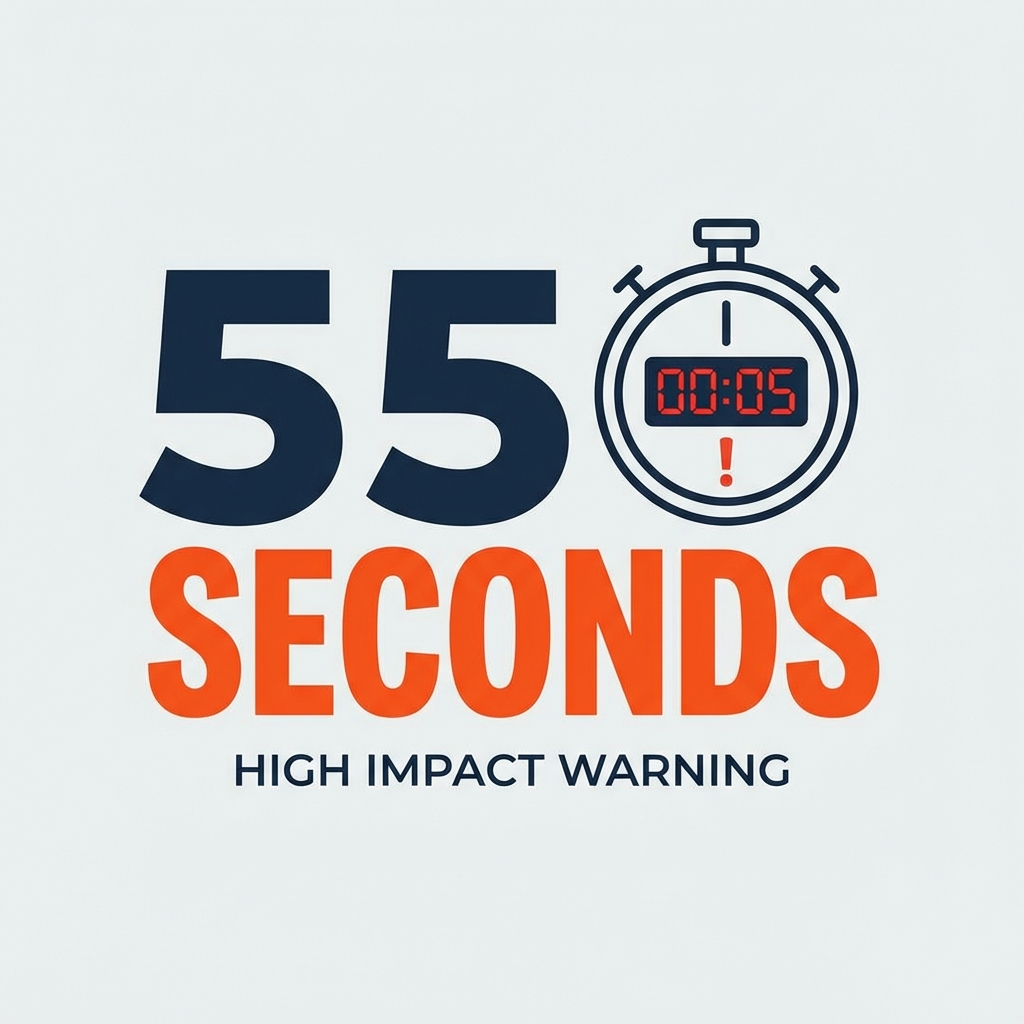
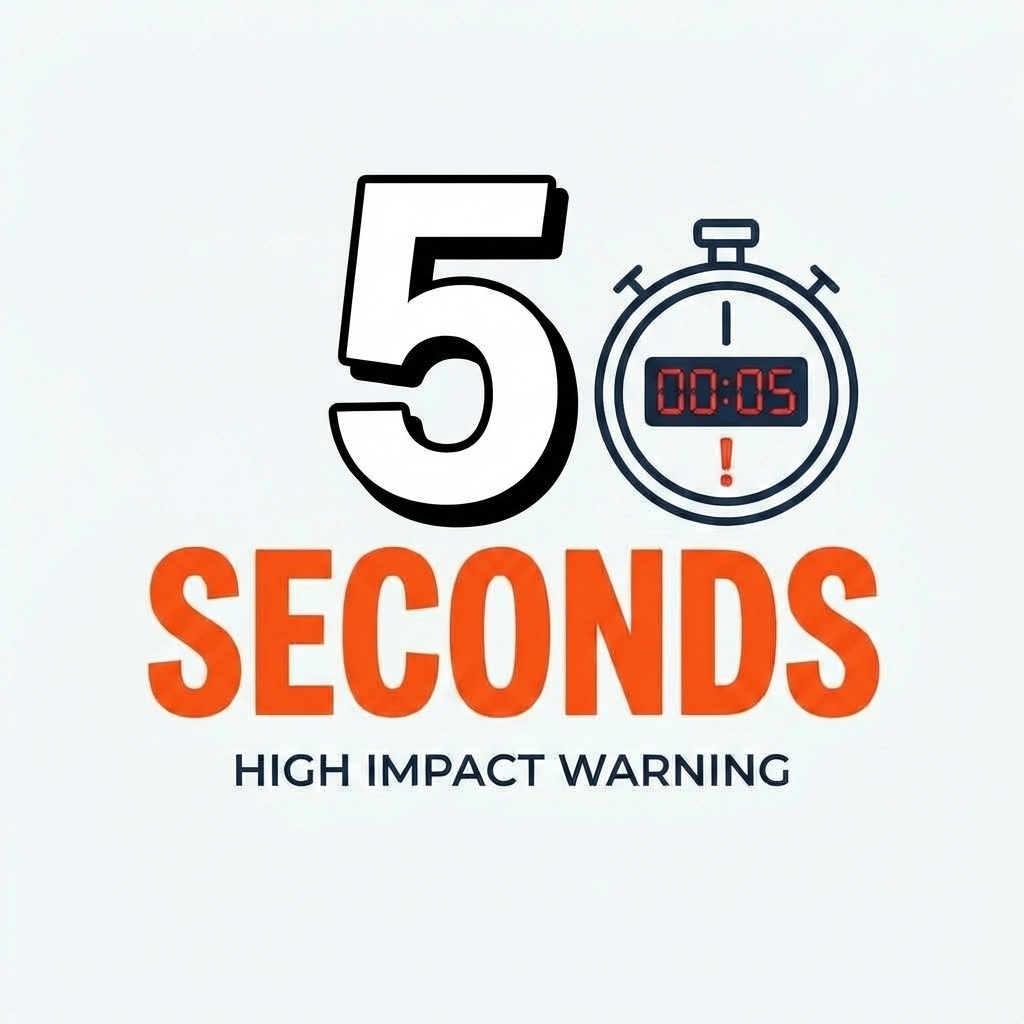
Update scene 4 image and adjust video plan copy

Changed region(s): [[0.125, 0.1562, 0.5625, 0.5312], [0.625, 0.3438, 0.7812, 0.4062], [0.6875, 0.4375, 0.7188, 0.4688]]

diff --git a/plans/video_composition_plan.md b/plans/video_composition_plan.md
@@ -13,7 +13,7 @@ Canvaのスライド1枚ごとに以下の構成で作ってください。
 
 | シーン | 秒数 | 画面イメージ (Canva素材検索ワード) | テロップ (画面に大きく出す文字) | ナレーション / 字幕 |
 | :--- | :--- | :--- | :--- | :--- |
-| **1** | 0:00-0:07 | ![Scene 1](assets/scene_01_busy_parents.png)<br>忙しい親、散らかった部屋、パソコン<br>*(Busy mom/dad, stressed)* | 親子の会話<br>1日、何分だと思いますか？ | 共働き世帯が増え、親子の会話時間は... |
+| **1** | 0:00-0:07 | ![Scene 1](assets/scene_01_busy_parents.png)<br>忙しい親、散らかった部屋、パソコン<br>*(Busy mom/dad, stressed)* | 親子の会話<br>1日、何分だと思いますか？ | 親子の会話、1日、何分だと思いますか？共働き世帯が増え、親子の会話時間は... |
 | **2** | 0:07-0:12 | ![Scene 2](assets/scene_02_clock_ticking.png)<br>時計の針がぐるぐる回る、砂時計<br>*(Clock ticking fast)* | わずか<br>25分 | たったの25分と言われています。 |
 | **3** | 0:12-0:18 | ![Scene 3](assets/scene_03_curious_child.png)<br>子供が「？」マークに囲まれている<br>*(Curious child, question marks)* | 子供の質問<br>1日 300回 | 一方で、4歳の子供がする質問は1日300回。 |
 | **4** | 0:18-0:24 | ![Scene 4](assets/scene_04_5_seconds.png)<br>数字がドンと出る<br>*(Impact font)* | 1問あたり<br>たった「5秒」 | 親が1つの質問に向き合える時間は、わずか5秒。これでは無理です。 |
@@ -28,7 +28,7 @@ Canvaのスライド1枚ごとに以下の構成で作ってください。
 | シーン | 秒数 | 画面イメージ (Canva素材検索ワード) | テロップ (画面に大きく出す文字) | ナレーション / 字幕 |
 | :--- | :--- | :--- | :--- | :--- |
 | **6** | 0:30-0:35 | ![Scene 6](assets/scene_06_oyaco_logo.png)<br>**アプリのロゴ** または タイトル画面 | **OyaCo Lab**<br>親子の会話を<br>「ネタ切れ」から救う | その課題を解決するのが、「OyaCo Lab」です。 |
-| **7** | 0:35-0:45 | ![Scene 7](assets/scene_07_connection_bridge.png)<br>3人の関係図（子供・AI・親）<br>*(Connection, Network, Bridge)* | ただのAIじゃない。<br>「親子をつなぐ架け橋」 | AIが子供の「好奇心の相棒」になり、そこで得た発見を親へ「会話のネタ」として届けます。 |
+| **7** | 0:35-0:45 | ![Scene 7](assets/scene_07_connection_bridge.png)<br>3人の関係図（子供・AI・親）<br>*(Connection, Network, Bridge)* | AIが親子をつなぐ。<br>「会話の橋渡し」 | AIが子供の発見を受け止め、親に話しかけやすい“会話のきっかけ”へ変えて届けます。 |
 
 ---
 
@@ -36,12 +36,7 @@ Canvaのスライド1枚ごとに以下の構成で作ってください。
 
 **BGM:** 軽快なリズム
 
-| シーン | 秒数 | 画面イメージ | テロップ (画面に大きく出す文字) | ナレーション / 字幕 |
-| :--- | :--- | :--- | :--- | :--- |
-| **8** | 0:45-0:55 | ![Scene 8](assets/scene_08_ai_doctors.png)<br>**【動画】** 子供が質問→博士が登場 | 7人のAI博士が<br>子供の「なぜ？」に回答 | 子供が質問すると、その分野の専門家AIが登場。今回はニュートン博士です。 |
-| **9** | 0:55-1:05 | ![Scene 9](assets/scene_09_thinking_animation.png)<br>**【動画】** 博士の考え中アニメーション | 待ち時間を<br>「ワクワク」に変える | 生成の待ち時間も、博士が考えている演出で子供を飽きさせません。 |
-| **10** | 1:05-1:15 | ![Scene 10](assets/scene_10_parent_notification.png)<br>**【動画】** 親のスマホに通知が来る画面 | ここがポイント！<br>親への「ネタ提供」 | そして最大の特徴。子供の興味をAIが分析し、親へ「今、こんなこと話してみて！」と通知します。 |
-| **11** | 1:15-1:25 | ![Scene 11](assets/scene_11_happy_conversation.png)<br>親子のイラスト、会話している様子<br>*(Happy family talking)* | AIが黒子になり<br>会話が弾む | 専門知識がなくても大丈夫。AIからのパスを受け取るだけで、親子の会話が弾みます。 |
+デモ部分の詳細なカット割り・ナレーションは [`plans/video_editing_plan_visual.md`](plans/video_editing_plan_visual.md:1) を参照してください。
 
 ---
 

diff --git a/plans/video_editing_plan_visual.md b/plans/video_editing_plan_visual.md
@@ -11,7 +11,7 @@
 | **A-1: タイトルスライド**<br>子供の体験 | <img src="./assets/title_slide_part_a_child.png" width="300"> | 00:05- | Part A開始の区切り。<br>テキスト案: 「Part A: 子供の体験」 | 「まずは学習画面。学びが自分ごとになります。」 |
 | **A-2: 質問入力**<br>音声で簡単に質問 | <img src="../output/video_analysis_5sec_processed/frame_0001.png" width="300"> | 00:10- | マイクに向かって話しかけるシーン。<br>「うんうん、きいてるよ！」で音声入力が直感的。 | 「ボタンを押して話すだけ。音声で質問できます。」 |
 | **A-3: 誰に聞く？**<br>博士の選定 | <img src="../output/video_analysis_5sec_processed/frame_0004.png" width="300"> | 00:25- | 質問内容に応じて博士候補が表示される。<br>「だれにきくかかんがえているよ…」の演出。 | 「質問に合わせて博士を選びます。先生が決まる瞬間。」 |
-| **A-4: 博士決定**<br>選定理由の提示 | <img src="../output/video_analysis_5sec_processed/frame_0005.png" width="300"> | 00:30- | ニュートン博士に決定。<br>「えらばれたりゆう」で納得感を演出。 | 「選ばれた理由が見えるから、納得して聞けます。」 |
+| **A-4: 博士決定**<br>選定理由の提示 | <img src="../output/video_analysis_5sec_processed/frame_0005.png" width="300"> | 00:30- | ニュートン博士に決定。<br>「えらばれたりゆう」で納得感を演出。<br>※5フレーム目の表記は「**5分**」に修正（55分に見えないよう明確に）。 | 「選ばれた理由が見えるから、納得して聞けます。」 |
 | **A-5: 待機画面**<br>飽きさせない工夫 | <img src="../output/video_analysis_5sec_processed/frame_0006.png" width="300"> | 00:35- | 思考中アニメーション、二段階プログレス、クイズ&豆知識。<br>待ち時間も「遊び」に変える。<br>(frame_0006〜0009あたりを使用) | 「待ち時間もクイズで楽しく。進捗が見えます。」 |
 | **A-6: 博士の回答**<br>専門家による解説 | <img src="../output/video_analysis_5sec_processed/frame_0011.png" width="300"> | 01:00- | 4コマ解説とテキストで分かりやすく説明。<br>ステップ表示（1/4など）でテンポよく。<br>(frame_0010〜0013あたりを使用) | 「博士が楽しく解説。4コマで理解できます。」 |
 | **A-7: 次の発見へ**<br>探究の連鎖 | <img src="../output/video_analysis_5sec_processed/frame_0014.png" width="300"> | 01:15- | 回答の最後に「もっとしりたい？」で関連質問を提示。<br>単発で終わらず好奇心を広げる。 | 「“もっと知りたい”が次の発見へ。」 |
